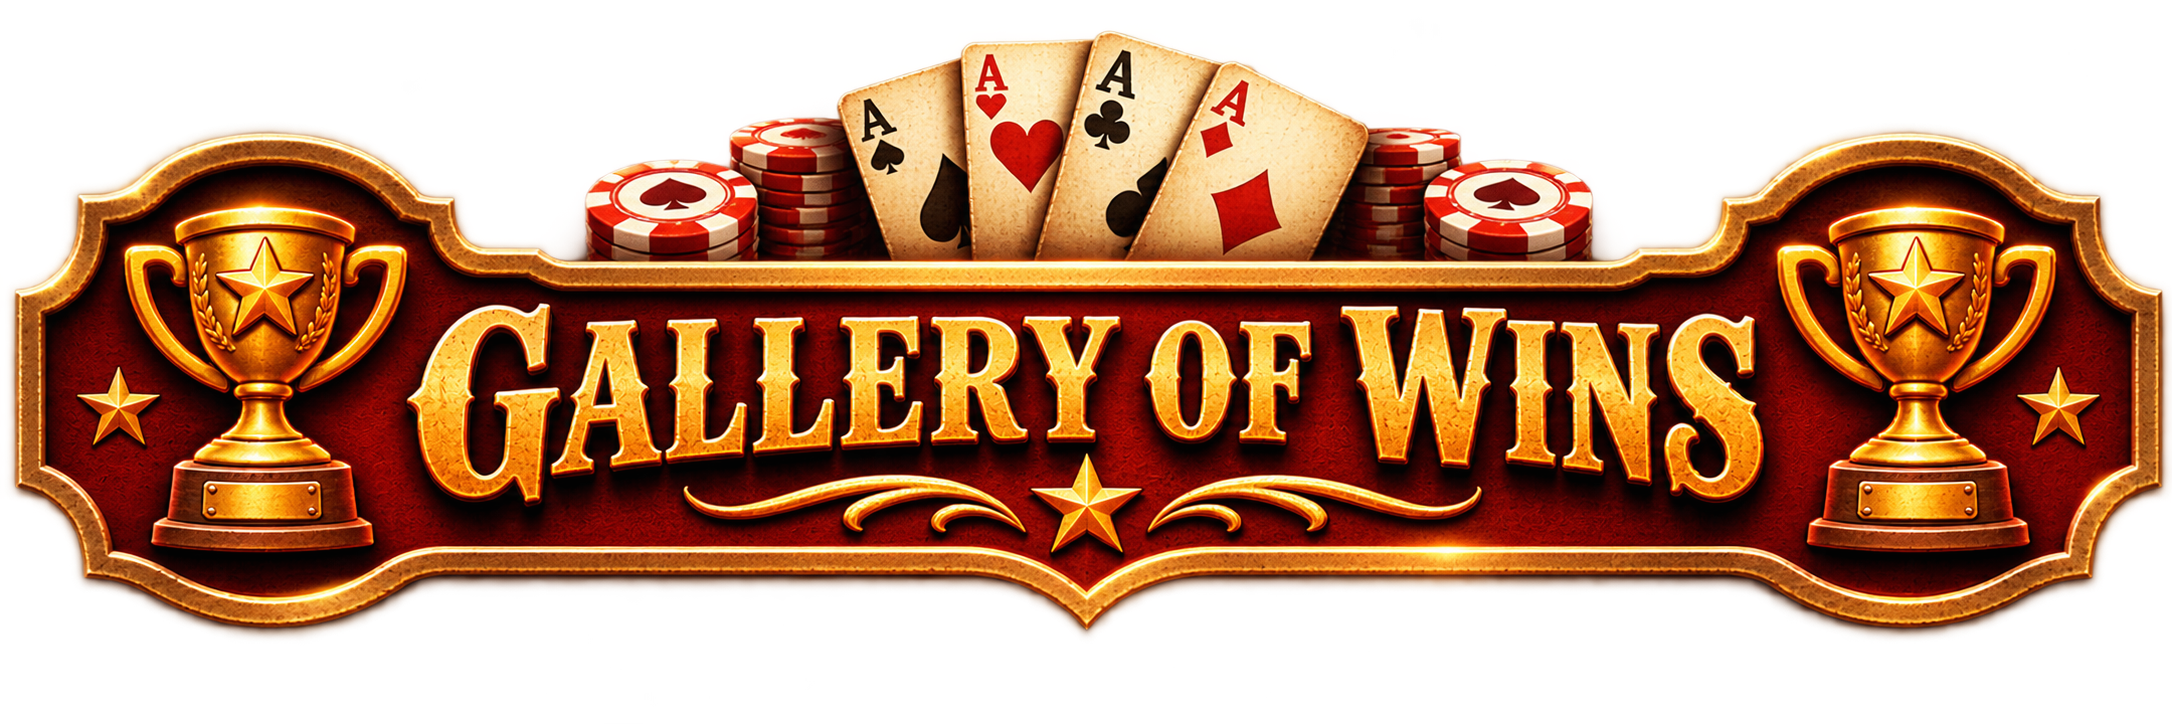
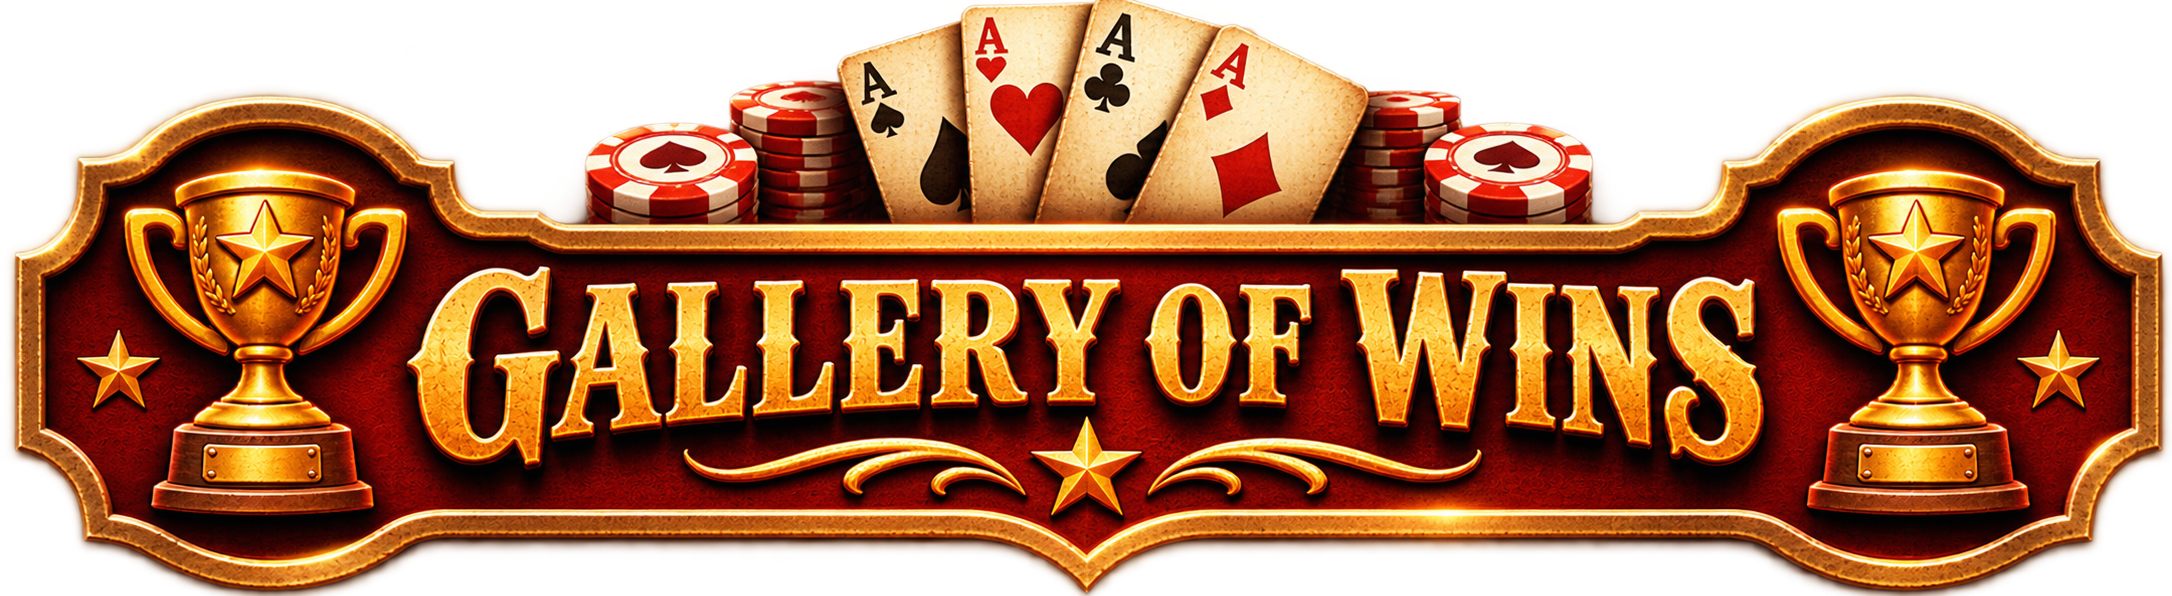
Update Gallery of Wins artwork to trimmed PNG
Replace plaque asset, cache-bust the URL, and tune reserved height for the
shorter aspect ratio while keeping bottom-center placement.

diff --git a/Web/CinematicPoker.Web/wwwroot/css/app.css b/Web/CinematicPoker.Web/wwwroot/css/app.css
@@ -1107,9 +1107,9 @@ html.scene-street.resume-play .boot-screen {
     display: none;
 }
 
-/* Room for the doubled Gallery of Wins plaque (~3:1 art) plus a thin gap. */
+/* Room for the trimmed Gallery of Wins plaque (~3.6:1 art) plus a thin gap. */
 .game3d.banner-victory {
-  --victory-plaque-reserve: min(44vh, 400px, calc(min(96vw, 1240px) / 2.75));
+    --victory-plaque-reserve: min(44vh, 400px, calc(min(96vw, 1240px) / 3.65));
 }
 
 /* Shown only after the player takes a pot or the table. Hidden while the
@@ -1455,7 +1455,7 @@ html.scene-street.resume-play .boot-screen {
 
 @media (max-height: 500px) and (orientation: landscape) {
     .game3d.banner-victory {
-        --victory-plaque-reserve: min(36vh, 240px, calc(min(96vw, 1240px) / 2.75));
+        --victory-plaque-reserve: min(36vh, 240px, calc(min(96vw, 1240px) / 3.65));
     }
     .victory-carousel-coverflow {
         --victory-cert-w: min(46vw, 340px);
@@ -1475,7 +1475,7 @@ html.scene-street.resume-play .boot-screen {
     .victory-carousel { top: 4px; }
     .victory-carousel-counter { top: -16px; }
     .game3d.banner-victory {
-        --victory-plaque-reserve: min(32vh, 200px, calc(96vw / 2.75));
+        --victory-plaque-reserve: min(32vh, 200px, calc(96vw / 3.65));
     }
     .victory-gallery-plaque {
         max-height: min(32vh, 200px);
